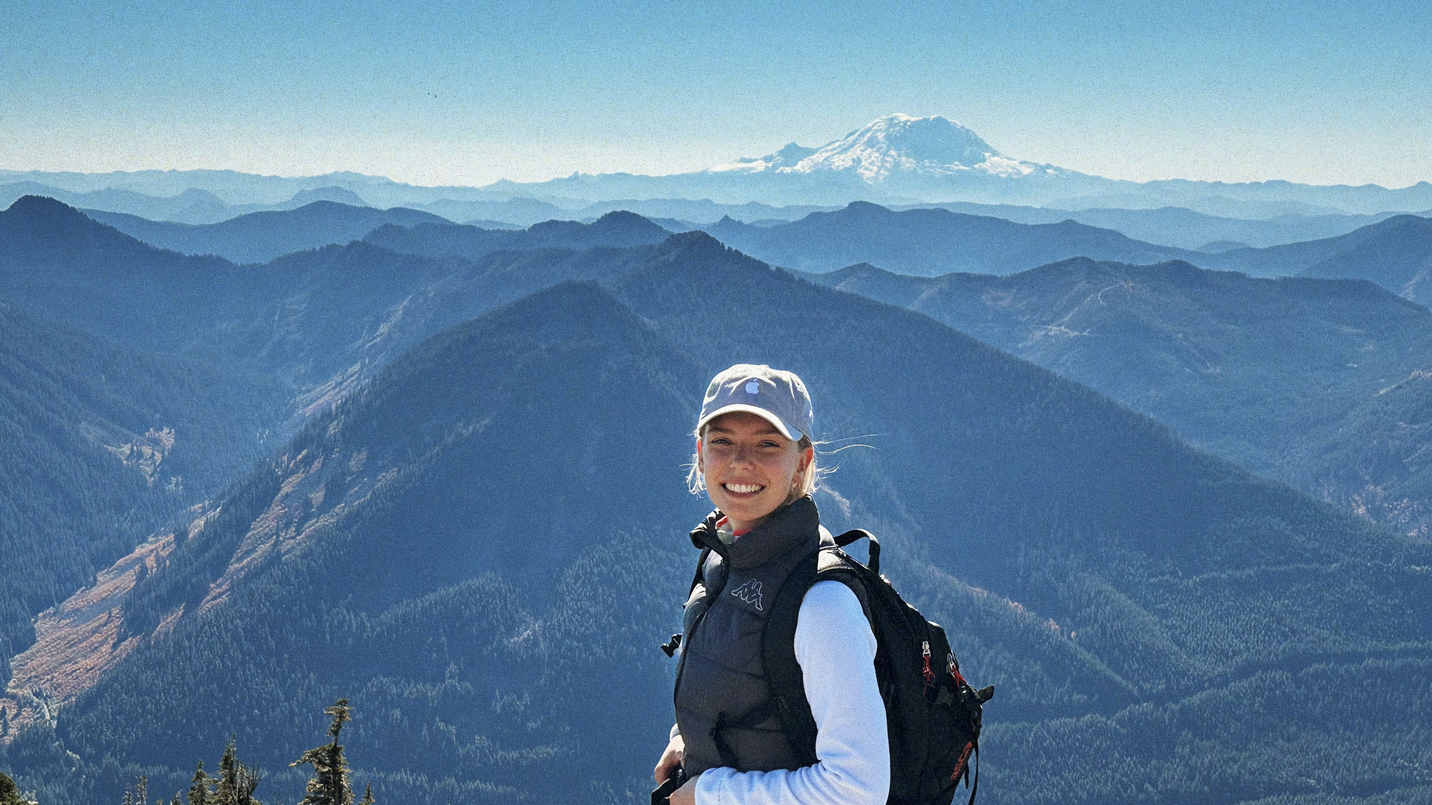
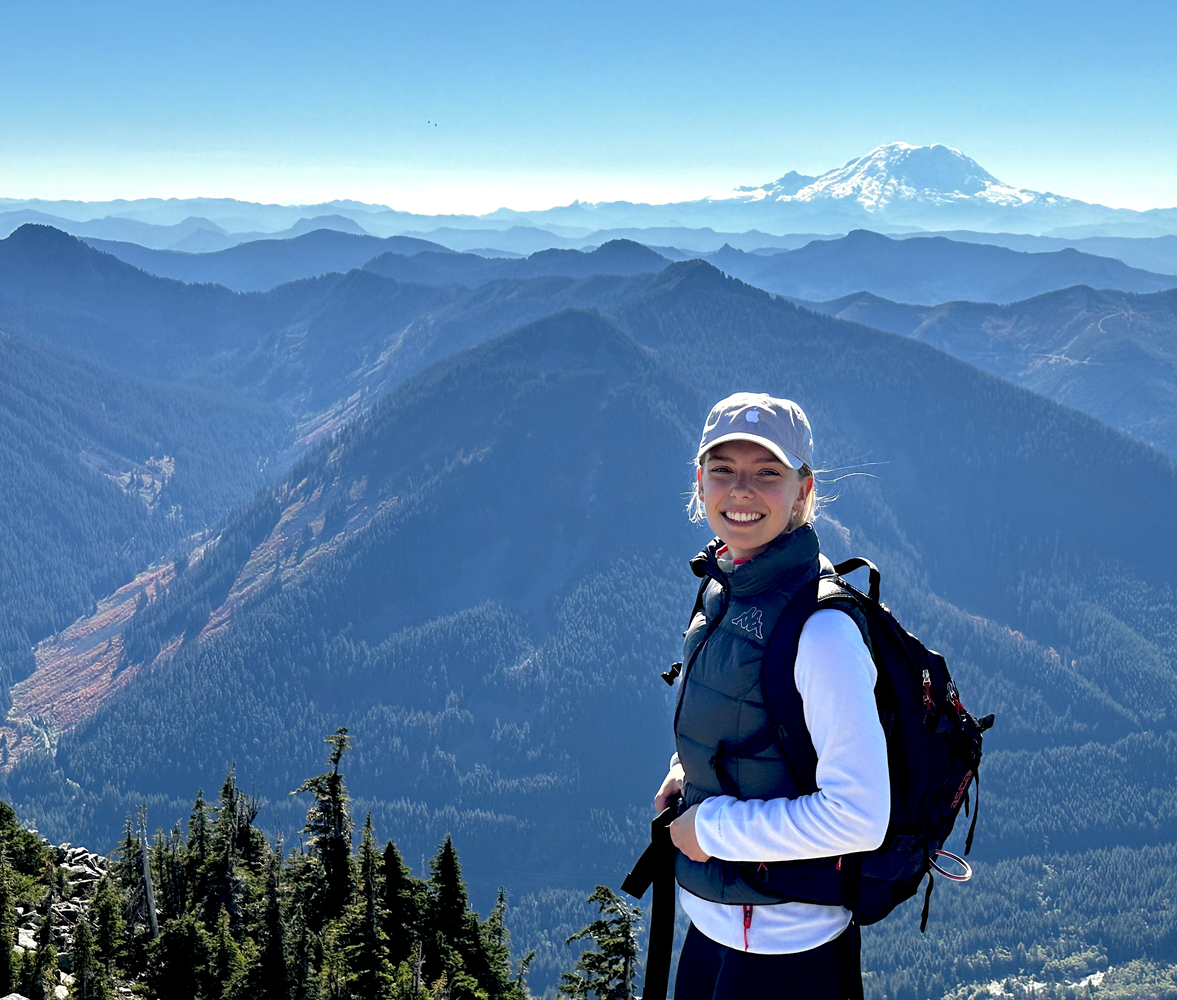
home page done

diff --git a/styles/site.css b/styles/site.css
@@ -6,49 +6,46 @@
 body { 
     color: var(--ink); 
     background-color: var(--parchment); 
-    font-family: helvetica, sans-serif; margin: 1rem 5%; }
+    font-family: Courier New, monospace; 
+    margin: 0px}
 
-a:link,a:visited { color: var(--link-color); text-decoration: none;}
-a:hover { text-decoration: underline;}
+a:link,
+a:visited { 
+    color: var(--link-color); 
+    text-decoration: none;}
+
 a:active { background-color: var(--link-color); color: var(--parchment); text-decoration: none;}
-     
-footer { padding-top: 1rem; border-top: 3px solid var(--ink);}
 
-header h2 {
-    background-color: #a51c30;
-    font-variant: small-caps;
-    color: white;
-    padding: 0.5em;
-    margin: 0;
-    font-family: 'Roboto Condensed', Arial, sans-serif;
- 
- }
 
-main h3.home-photo {
-    background-image: url("../images/home-photo.jpg");
-    background-repeat: no-repeat;
-    background-size: cover;
-    height: 300px;
-    text-indent: -3000px;
- }
+/* header styles */    
 
- header nav ul {
+header nav {
+    padding:1rem;
+    background-color: rgb(245, 245, 245);
+}
+
+header nav ul {
     display: flex;
     list-style-type: none;
- }
- 
- header nav ul li {
-    padding-right: 10rem;
+    margin: 0;
+    justify-content: right;
+    white-space: nowrap;
  }
 
- main h1 {
-   color: white;
-   font-size: 3.5rem;
-   text-shadow: 1px 1px 2px black;
-   text-align: center;
-   padding: 0.5em;
-   margin-top: 0;
-   margin-bottom: 0.25em;
+ header nav ul li {
+    margin-top: 1rem;
+    padding: 0;
+    margin-bottom: 1rem;
+ }
+
+ header nav ul li a {
+    padding: 1rem 2rem;
+    font-size: 1.2rem;
+ }
+
+ header nav ul li a:hover{
+    color: var(--link-color);
+    font-weight: bold;
  }
 
  main h2 {
@@ -63,7 +60,119 @@ main h3.home-photo {
  div.buttons ul {
     display: flex;
     list-style-type: none;
+    position: relative;
  }
- div.buttons ul li {
-    padding-right: 10rem;
+
+ div.buttons ul li a {
+    padding: 1rem 1rem;
+    margin-top: 1rem;
+    margin-right: 1rem;
+    font-size: 1.2rem;
+    background-color: darkgrey;
+    color: white;
  }
+
+div.image-text-buttons {
+    position: relative;
+ }
+  
+  .text {
+    position: absolute;
+    font-family: Optima, sans-serif;
+    color: white;
+    text-transform: uppercase;
+    letter-spacing: 0.5rem;
+    top: 40%;
+    left: 8rem;
+    font-size: 6rem;
+  }
+  
+  .buttons {
+    position: absolute;
+    top: 60%;
+    left: 8rem;
+    font-size: 1rem;
+  }
+
+  .buttons ul {
+    padding-inline-start: 0px;
+  }
+
+
+.buttons ul li a:hover {
+    background-color: var(--ink);
+    text-decoration: none;
+}
+  
+  img { 
+    width: 60%;
+    margin-left:40%;
+    height: auto;
+  }
+
+/*footer style*/
+
+footer {
+    background-color: var(--ink);
+    color: white;
+    padding-top: 1rem; 
+    border-top: 0.5px solid var(--link-color);
+}
+
+
+
+
+footer div.footer-navigation{
+    font-family: optima, sans-serif;
+    display: flex;
+    justify-content: space-around;
+    text-align: center;
+  }
+
+footer div.footer-navigation ul {
+    padding-inline-start: 0px;
+    list-style-type: none;
+}
+
+footer div.footer-navigation h3 {
+    padding: 0;
+    margin: 0.25rem;
+}
+
+footer div.footer-navigation p {
+    padding: 0;
+    margin: 0.25rem;
+}
+
+
+/*
+ div.image-text-buttons div.image img{
+    max-width: 60%;
+    height: auto;
+    display: block;
+    margin-left: 40%;
+
+  }
+
+  div.text {
+    position: relative;
+    z-index: 1;
+    width: auto;
+    height: 20px;
+    top: 80%; 
+    left: 40%;
+  }
+
+div.text h1 {
+    font-size: 2rem; 
+    text-align: center;
+    font-family: Optima, sans-serif;
+    color: white;
+    text-transform: uppercase;
+    letter-spacing: 0.5rem;
+    position: relative;
+    z-index: 1;
+  }
+
+
+*/

diff --git a/index.html b/index.html
@@ -20,18 +20,29 @@
         </ul>
        </nav>
     </header>
+
+
     <main>
-        <h3 class="home-photo">Home Photo</h3>
+        <div class='image-text-buttons'>   
+            <img src="images/home-photo.jpg" alt="Image of me smiling with Rainier in the back">
+            <div class='text'>Step By Step</div>
+            <div class='buttons'>
+                    <ul>
+                        <li><a href="#">Past Adventures</a></li>
+                        <li><a href="#">Up Next</a></li>
+                    </ul>
+             </div>
+        </div>
+        <!--<h3 class="home-photo">Home Photo</h3> 
         <h1>Step By Step</h1>
-        <h2>Navigating this world one step at a time</h2>
-        <div class='buttons'>
-        <ul>
-            <li><a href="#">Past Adventures</a></li>
-            <li><a href="#">Next on list</a></li>
-        </ul>
-    </div>
+        <h2>Navigating this world one step at a time</h2>-->
+        
+
     </main>
+
+
     <footer>
+        <div class='footer-navigation'>
         <nav>
             <h3>About</h3>
             <p>Small paragraph about me</p>
@@ -50,7 +61,7 @@
                 <a href="#">In et enim a odio facilisis ultrices.</a>
             </ul>
         </nav>
-        </p>
+    </div>
     </footer>
 </body>
 
